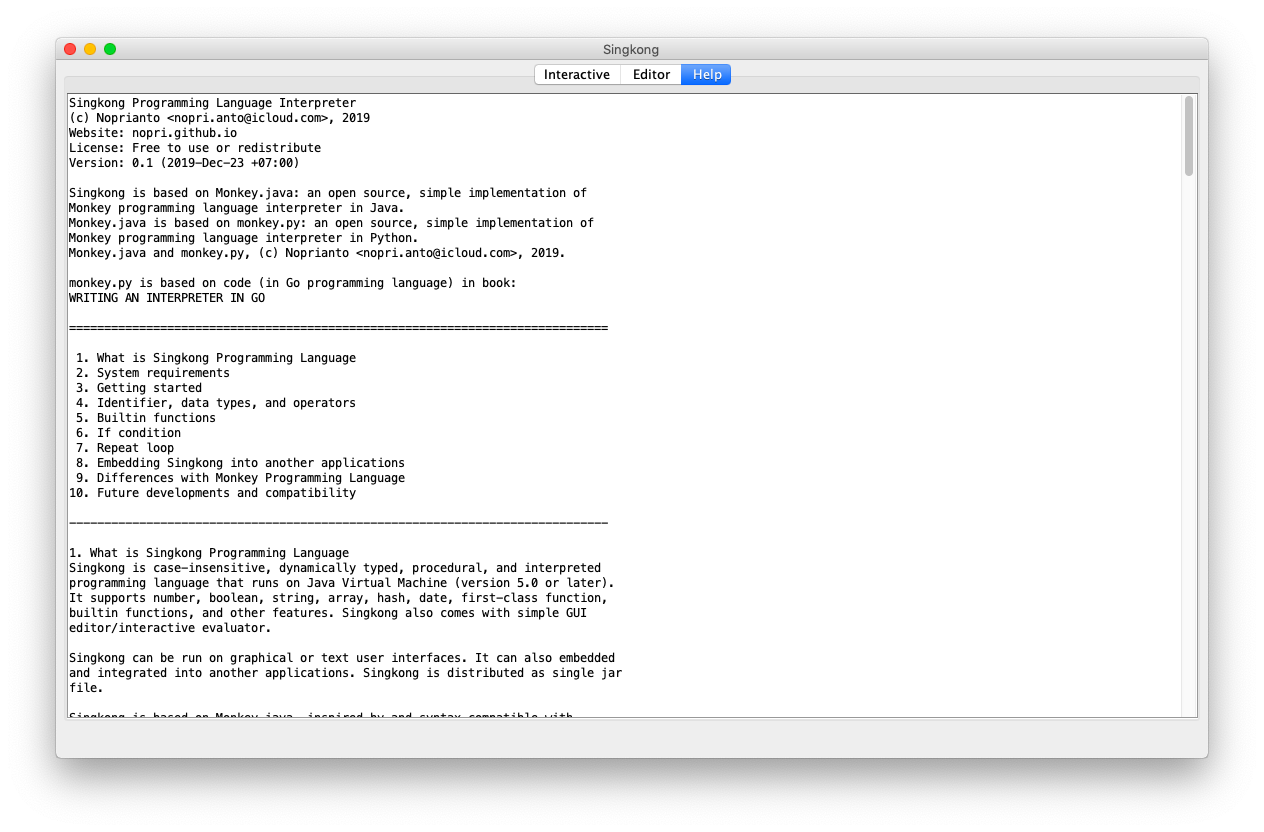
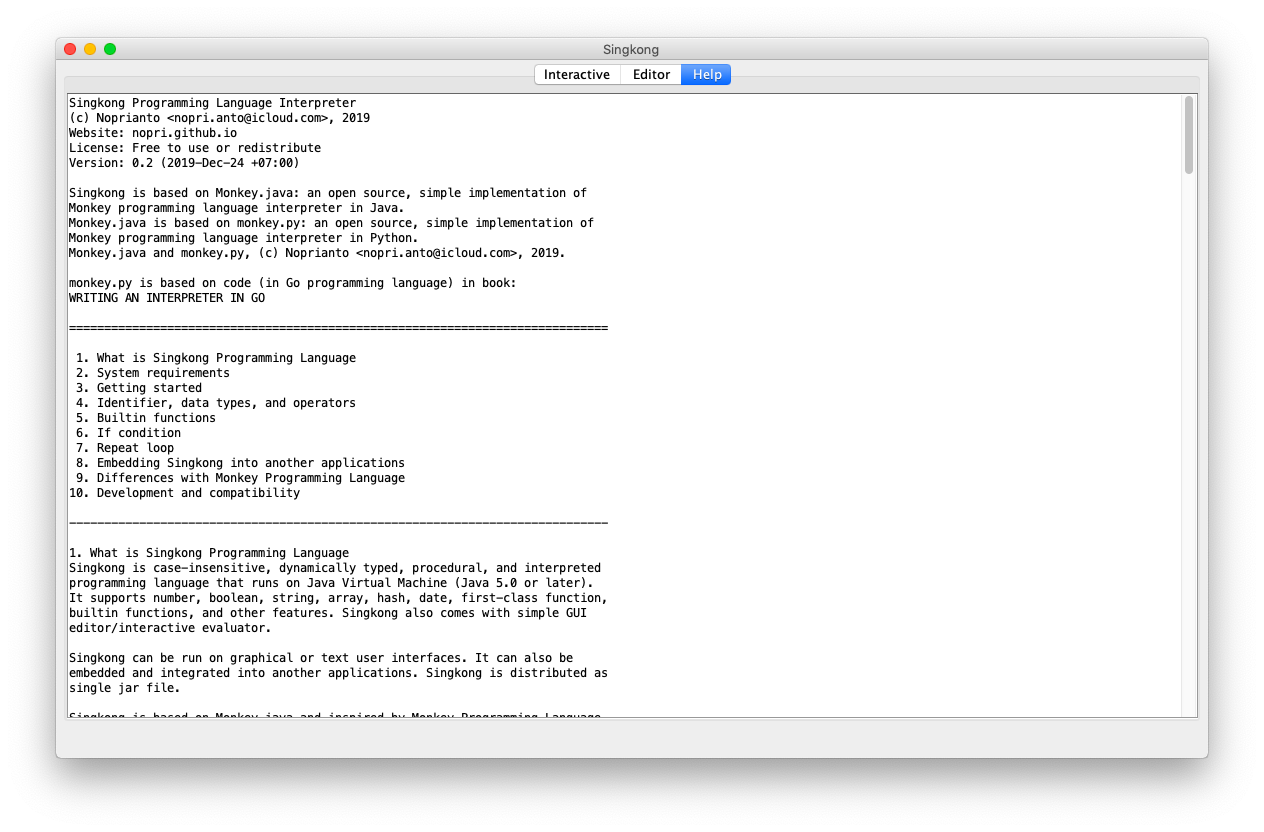
Singkong Programming Language (v0.2)

diff --git a/index.html b/index.html
@@ -47,15 +47,15 @@
         <p>
         <strong>Singkong Programming Language</strong>: case-insensitive, dynamically typed, 
         procedural, and interpreted programming language that runs on 
-        Java Virtual Machine (version 5.0 or later). It supports number, 
+        Java Virtual Machine (Java 5.0 or later). It supports number, 
         boolean, string, array, hash, date, first-class function, 
         builtin functions, and other features. Singkong also comes with 
         simple GUI editor/interactive evaluator. 
         </p>
 
         <p>
-        Singkong is based on Monkey.java (please see below), inspired by 
-        and syntax-compatible with Monkey Programming Language.
+        Singkong is based on Monkey.java (please see below) and inspired by 
+        Monkey Programming Language.
         </p>
 
         <p>
